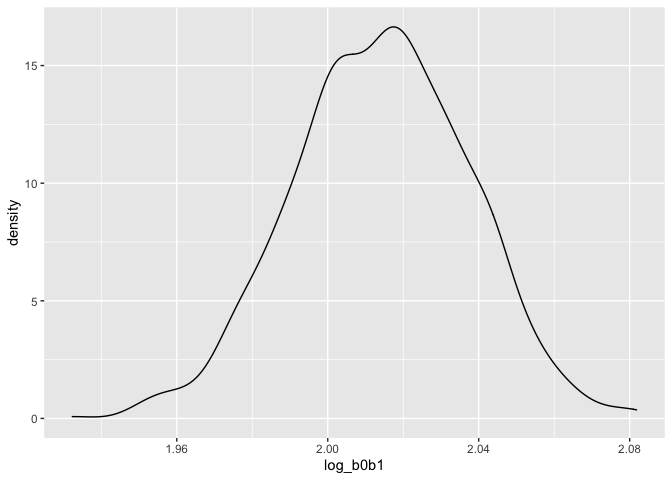
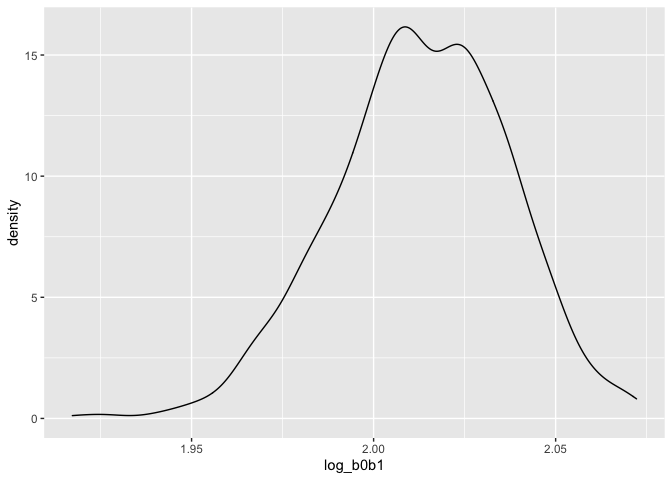
Problem 3 - model building

diff --git a/p8105_hw6_tjs2193.md b/p8105_hw6_tjs2193.md
@@ -62,7 +62,7 @@ quantile(rsq_bootstrap$r.squared, c(0.025, 0.975))
 ```
 
     ##      2.5%     97.5% 
-    ## 0.8936332 0.9271571
+    ## 0.8945090 0.9282874
 
 The distribution of r-squared estimates shows a slight left skew and is
 rather narrow. The estimated 95% confidence interval is (0.8937494,
@@ -113,7 +113,7 @@ quantile(log_betas_bootstrap$log_b0b1, c(0.025, 0.975))
 ```
 
     ##     2.5%    97.5% 
-    ## 1.959648 2.057400
+    ## 1.965707 2.057967
 
 Similar to the r-squared plot, this plot shows a slight left skew. The
 95% confidence interval for this estimate is (1.962837, 2.059418), but
@@ -234,6 +234,8 @@ but also had a fairly large confidence interval.
 
 ### Problem 3
 
+### **Birthweight regression model using LASSO and OLS**
+
 ### Bringing in and cleaning birthweight dataset
 
 ``` r
@@ -249,7 +251,8 @@ bwt_df =
     malform = as.logical(malform),
     mrace = as.factor(mrace),
     mrace = fct_recode(mrace, "white" = "1", "black" = "2", "asian" = "3", 
-                       "puerto rican" = "4"))
+                       "puerto rican" = "4")) %>%
+    sample_n(200)
 ```
 
     ## Rows: 4342 Columns: 20
@@ -264,20 +267,45 @@ bwt_df =
 bwt_df
 ```
 
-    ## # A tibble: 4,342 × 20
-    ##    babysex bhead blength   bwt delwt fincome frace gaweeks malform menarche
-    ##    <fct>   <dbl>   <dbl> <dbl> <dbl>   <dbl> <fct>   <dbl> <lgl>      <dbl>
-    ##  1 female     34      51  3629   177      35 white    39.9 FALSE         13
-    ##  2 male       34      48  3062   156      65 black    25.9 FALSE         14
-    ##  3 female     36      50  3345   148      85 white    39.9 FALSE         12
-    ##  4 male       34      52  3062   157      55 white    40   FALSE         14
-    ##  5 female     34      52  3374   156       5 white    41.6 FALSE         13
-    ##  6 male       33      52  3374   129      55 white    40.7 FALSE         12
-    ##  7 female     33      46  2523   126      96 black    40.3 FALSE         14
-    ##  8 female     33      49  2778   140       5 white    37.4 FALSE         12
-    ##  9 male       36      52  3515   146      85 white    40.3 FALSE         11
-    ## 10 male       33      50  3459   169      75 black    40.7 FALSE         12
-    ## # … with 4,332 more rows, and 10 more variables: mheight <dbl>, momage <dbl>,
+    ## # A tibble: 200 × 20
+    ##    babysex bhead blength   bwt delwt fincome frace       gaweeks malform menar…¹
+    ##    <fct>   <dbl>   <dbl> <dbl> <dbl>   <dbl> <fct>         <dbl> <lgl>     <dbl>
+    ##  1 female     32      48  2722   158      45 puerto ric…    39.4 FALSE        10
+    ##  2 male       32      48  2580   121      25 white          36.3 FALSE        13
+    ##  3 male       32      53  3232   123      65 black          42   FALSE        12
+    ##  4 male       30      43  1871   166      45 black          32.1 FALSE        14
+    ##  5 female     33      47  2778   165      95 white          39.9 FALSE        10
+    ##  6 female     34      48  3175   134      35 black          40.3 FALSE        11
+    ##  7 male       33      52  3062   137      55 white          40.4 FALSE        14
+    ##  8 male       34      51  3515   164      35 white          41.3 FALSE        12
+    ##  9 female     33      48  2948   132      15 black          39.7 FALSE        11
+    ## 10 female     35      48  3289   172      15 black          40.6 FALSE        12
+    ## # … with 190 more rows, 10 more variables: mheight <dbl>, momage <dbl>,
     ## #   mrace <fct>, parity <dbl>, pnumlbw <dbl>, pnumsga <dbl>, ppbmi <dbl>,
-    ## #   ppwt <dbl>, smoken <dbl>, wtgain <dbl>
+    ## #   ppwt <dbl>, smoken <dbl>, wtgain <dbl>, and abbreviated variable name
+    ## #   ¹menarche
     ## # ℹ Use `print(n = ...)` to see more rows, and `colnames()` to see all variable names
+
+### Finding optimal lambda
+
+``` r
+y = bwt_df$bwt
+x = model.matrix(bwt ~ ., bwt_df)[,-1]
+
+val_model =
+  cv.glmnet(x, y)
+
+opt_lambda = 
+  val_model$lambda.min
+
+opt_lambda
+```
+
+    ## [1] 8.290245
+
+### Fitting lasso regression model
+
+``` r
+lasso_bwt =
+  glmnet(x, y)
+```
